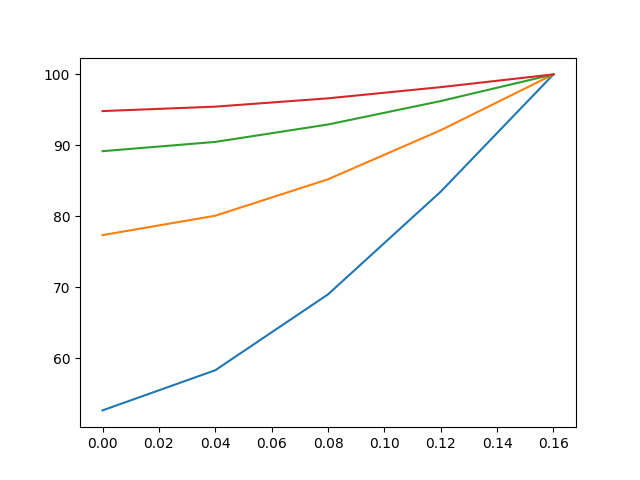
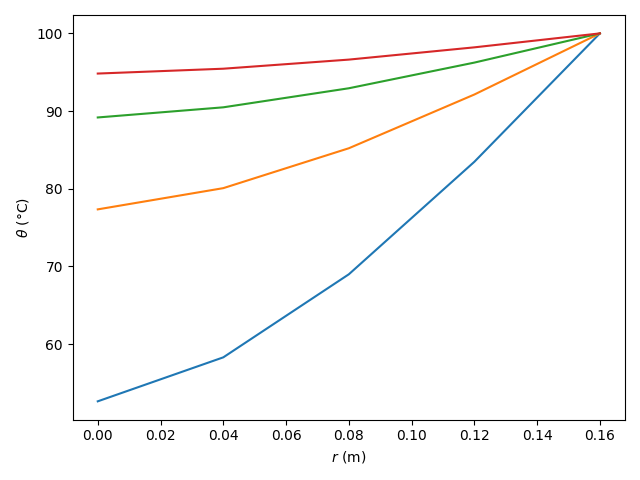
nu wel astitels

diff --git a/opg_c.py b/opg_c.py
@@ -4,8 +4,8 @@ import sys
 
 
 Radius = 0.2
-theta0 = 100
-theta1 = 10
+theta0 = 10
+theta1 = 100
 ks = 100e-4
 
 dt = 0.0001
@@ -48,4 +48,9 @@ for t in targetTs:
     ts = np.arange(0, t, dt)
     endTemps = ThetaInternal(rs, ts, Temps=endTemps, lockedr0=locked)
     plt.plot(rs/Radius, (np.array(endTemps)-theta0)/(theta1-theta0))
-    plt.savefig(f"{theta0}-{theta1}_{ks}-{round(t, 3)}_{'locked' if locked else 'free' }.png")
+    
+plt.ylabel("$\\theta$ ($\degree$C)")
+plt.xlabel("$r$ (m)")
+plt.tight_layout()
+
+plt.savefig(f"{theta0}-{theta1}_{ks}-{round(t, 3)}_{'locked' if locked else 'free' }.png")

diff --git a/opg_d.py b/opg_d.py
@@ -8,8 +8,8 @@ theta0 = 20
 theta1 = 100
 ks = 97e-6
 
-dt = 0.000001
-dr = 0.0001
+dt = 0.0001
+dr = 0.001
 tend = 100
 locked = False
 
@@ -48,4 +48,7 @@ while n < 4:
     n+=1
     print(endTemps[0])
 
+plt.ylabel("$\\theta$ ($\degree$C)")
+plt.xlabel("$r$ (m)")
+plt.tight_layout()
 plt.savefig(f"{ks}-{n}_{'locked' if locked else 'free' }.png")

diff --git a/opg_b.py b/opg_b.py
@@ -8,8 +8,8 @@ theta0 = 20
 theta1 = 100
 ks = 98e-6
 
-dt = 10
-dr = 0.05
+dt = 0.001
+dr = 0.004
 tend = 100
 locked = False
 
@@ -47,4 +47,7 @@ while n < 4:
     plt.plot(rs, endTemps)
     n+=1
 
+plt.ylabel("$\\theta$ ($\degree$C)")
+plt.xlabel("$r$ (m)")
+plt.tight_layout()
 plt.savefig(f"{ks}-{n}_{dr}.{dt}.png")
